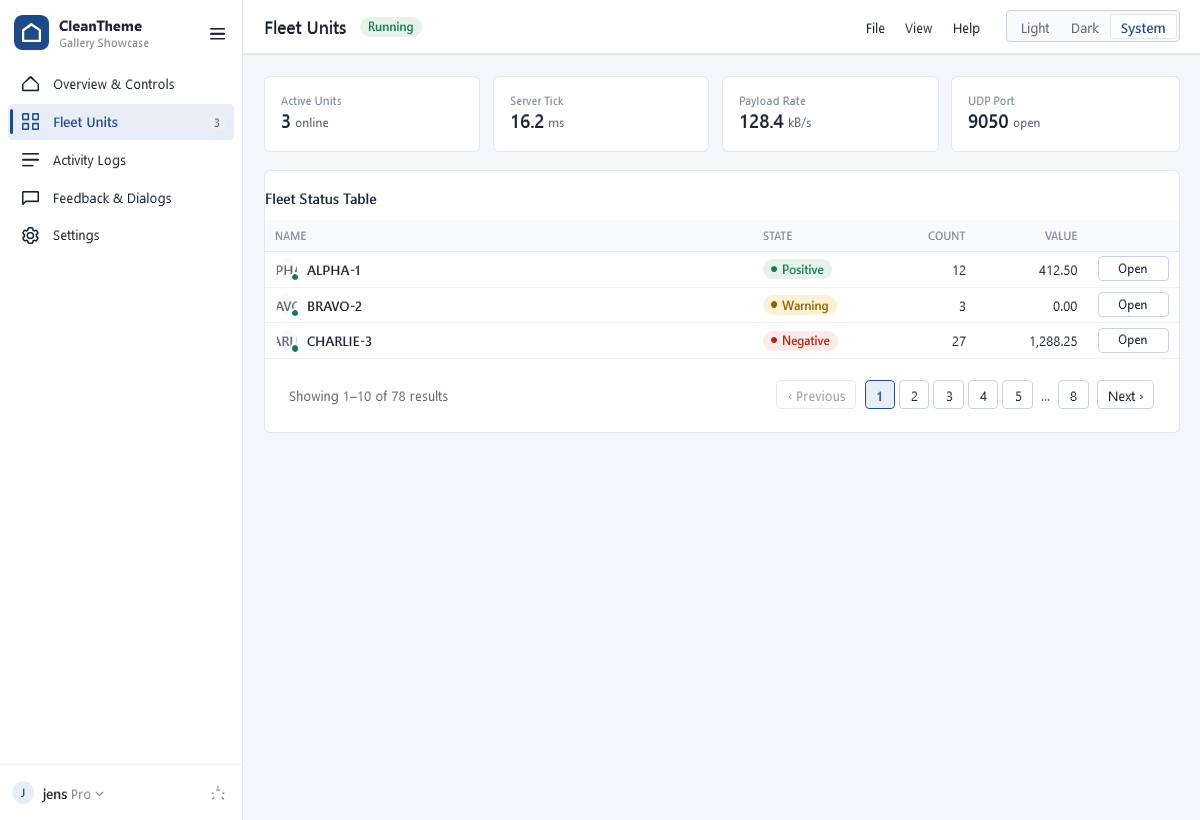
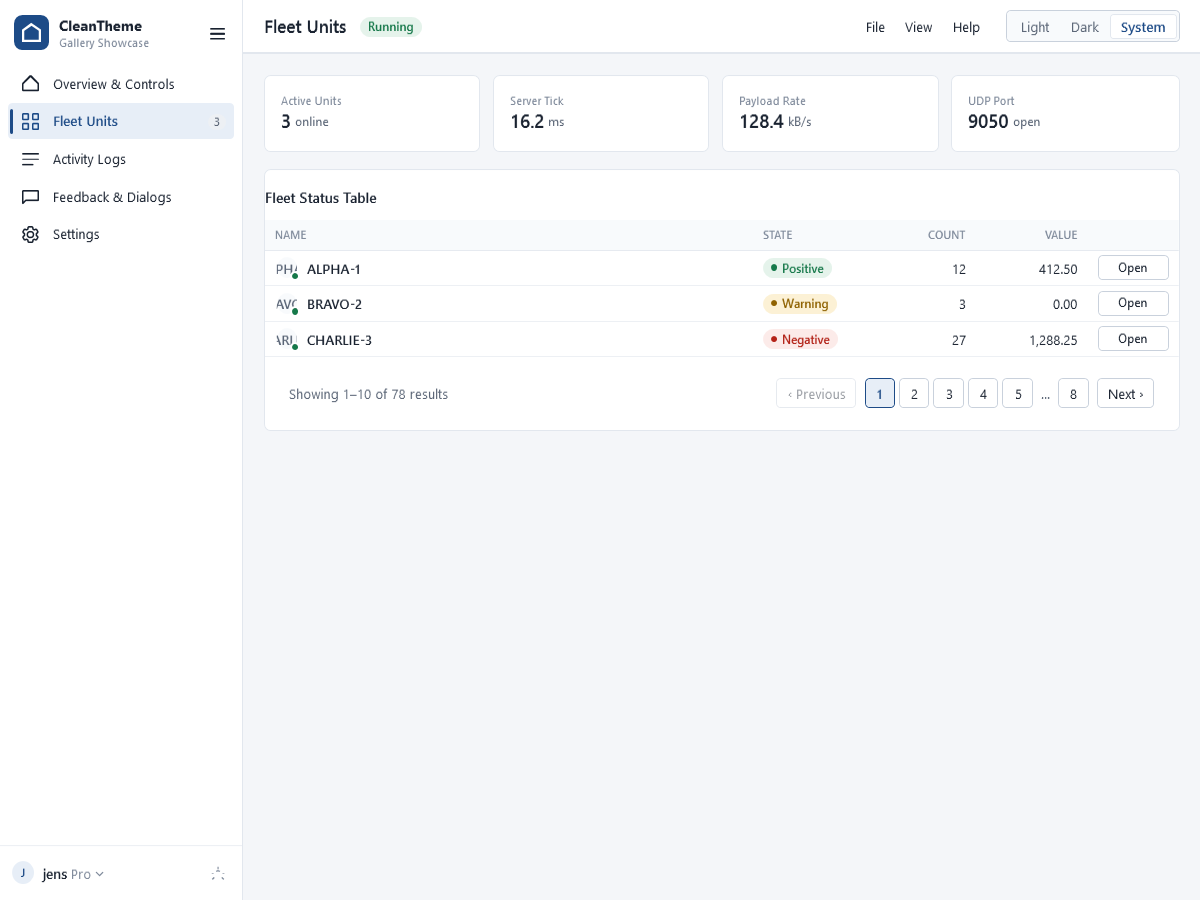
fix(AvatarGroup): use standard ItemsControl virtualization and regenerate unclipped screenshots

diff --git a/src/CleanTheme.Wpf/Themes/Generic.xaml b/src/CleanTheme.Wpf/Themes/Generic.xaml
@@ -1225,22 +1225,18 @@
     <!-- AvatarGroup: overlapping group of avatars with +N overflow -->
     <Style TargetType="controls:AvatarGroup">
         <Setter Property="Focusable" Value="False" />
+        <Setter Property="ItemsPanel">
+            <Setter.Value>
+                <ItemsPanelTemplate>
+                    <StackPanel Orientation="Horizontal" VerticalAlignment="Center" />
+                </ItemsPanelTemplate>
+            </Setter.Value>
+        </Setter>
         <Setter Property="Template">
             <Setter.Value>
                 <ControlTemplate TargetType="controls:AvatarGroup">
                     <StackPanel Orientation="Horizontal" VerticalAlignment="Center">
-                        <ItemsControl ItemsSource="{TemplateBinding VisibleItems}" Focusable="False">
-                            <ItemsControl.ItemsPanel>
-                                <ItemsPanelTemplate>
-                                    <StackPanel Orientation="Horizontal" />
-                                </ItemsPanelTemplate>
-                            </ItemsControl.ItemsPanel>
-                            <ItemsControl.ItemTemplate>
-                                <DataTemplate>
-                                    <ContentPresenter Content="{Binding}" Margin="-8,0,0,0" />
-                                </DataTemplate>
-                            </ItemsControl.ItemTemplate>
-                        </ItemsControl>
+                        <ItemsPresenter />
                         <Border x:Name="OverflowPill" Width="{TemplateBinding AvatarSize}" Height="{TemplateBinding AvatarSize}"
                                 CornerRadius="999" Background="{DynamicResource NeutralSoft}"
                                 BorderBrush="{DynamicResource Surface}" BorderThickness="2"

diff --git a/src/CleanTheme.Wpf/Controls/AvatarGroup.cs b/src/CleanTheme.Wpf/Controls/AvatarGroup.cs
@@ -1,9 +1,4 @@
 using System;
-using System.Collections;
-using System.Collections.Generic;
-using System.Collections.ObjectModel;
-using System.Collections.Specialized;
-using System.Linq;
 using System.Windows;
 using System.Windows.Controls;
 
@@ -12,11 +7,6 @@ namespace CleanTheme.Wpf.Controls;
 /// <summary>Displays an overlapping group of <see cref="Avatar"/> controls with an optional +N overflow indicator.</summary>
 public class AvatarGroup : ItemsControl
 {
-    private static readonly DependencyPropertyKey VisibleItemsPropertyKey = DependencyProperty.RegisterReadOnly(
-        nameof(VisibleItems), typeof(IList), typeof(AvatarGroup), new FrameworkPropertyMetadata(null));
-
-    public static readonly DependencyProperty VisibleItemsProperty = VisibleItemsPropertyKey.DependencyProperty;
-
     private static readonly DependencyPropertyKey OverflowCountPropertyKey = DependencyProperty.RegisterReadOnly(
         nameof(OverflowCount), typeof(int), typeof(AvatarGroup), new FrameworkPropertyMetadata(0));
 
@@ -29,7 +19,7 @@ public class AvatarGroup : ItemsControl
 
     public static readonly DependencyProperty MaxDisplayProperty = DependencyProperty.Register(
         nameof(MaxDisplay), typeof(int), typeof(AvatarGroup),
-        new FrameworkPropertyMetadata(4, (d, _) => ((AvatarGroup)d).UpdateVisibleItems()));
+        new FrameworkPropertyMetadata(4, (d, _) => ((AvatarGroup)d).UpdateContainers()));
 
     public static readonly DependencyProperty AvatarSizeProperty = DependencyProperty.Register(
         nameof(AvatarSize), typeof(double), typeof(AvatarGroup),
@@ -43,14 +33,6 @@ public class AvatarGroup : ItemsControl
     {
         DefaultStyleKeyProperty.OverrideMetadata(typeof(AvatarGroup), new FrameworkPropertyMetadata(typeof(AvatarGroup)));
     }
-
-    public AvatarGroup()
-    {
-        SetValue(VisibleItemsPropertyKey, new ObservableCollection<object>());
-        ((INotifyCollectionChanged)Items).CollectionChanged += OnItemsCollectionChanged;
-    }
-
-    public IList VisibleItems => (IList)GetValue(VisibleItemsProperty);
 
     public int OverflowCount => (int)GetValue(OverflowCountProperty);
 
@@ -74,65 +56,51 @@ public class AvatarGroup : ItemsControl
         set => SetValue(OverlapProperty, value);
     }
 
-    protected override void OnItemsSourceChanged(IEnumerable oldValue, IEnumerable newValue)
+    protected override bool IsItemItsOwnContainerOverride(object item) => item is Avatar;
+
+    protected override DependencyObject GetContainerForItemOverride() => new Avatar();
+
+    protected override void PrepareContainerForItemOverride(DependencyObject element, object item)
     {
-        base.OnItemsSourceChanged(oldValue, newValue);
-        if (oldValue is INotifyCollectionChanged oldNotify)
+        base.PrepareContainerForItemOverride(element, item);
+        if (element is Avatar avatar && item is not Avatar)
         {
-            oldNotify.CollectionChanged -= OnItemsSourceCollectionChanged;
+            avatar.Initials = item?.ToString() ?? string.Empty;
         }
-        if (newValue is INotifyCollectionChanged newNotify)
+
+        if (element is FrameworkElement fe)
         {
-            newNotify.CollectionChanged += OnItemsSourceCollectionChanged;
+            if (element is Avatar av)
+            {
+                av.AvatarSize = AvatarSize;
+            }
         }
-        UpdateVisibleItems();
+
+        UpdateContainers();
     }
 
-    private void OnItemsSourceCollectionChanged(object? sender, NotifyCollectionChangedEventArgs e) => UpdateVisibleItems();
-
-    private void OnItemsCollectionChanged(object? sender, NotifyCollectionChangedEventArgs e) => UpdateVisibleItems();
-
-    private void UpdateVisibleItems()
+    protected override void OnItemsChanged(System.Collections.Specialized.NotifyCollectionChangedEventArgs e)
     {
-        var targetList = (ObservableCollection<object>)VisibleItems;
-        targetList.Clear();
+        base.OnItemsChanged(e);
+        UpdateContainers();
+    }
 
-        var sourceList = new List<object>();
-        if (ItemsSource != null)
-        {
-            foreach (var item in ItemsSource)
-            {
-                sourceList.Add(item);
-            }
-        }
-        else
-        {
-            foreach (var item in Items)
-            {
-                sourceList.Add(item);
-            }
-        }
-
+    public void UpdateContainers()
+    {
+        int count = Items.Count;
         int max = Math.Max(1, MaxDisplay);
-        int total = sourceList.Count;
 
-        if (total <= max)
+        for (int i = 0; i < count; i++)
         {
-            foreach (var item in sourceList)
+            if (ItemContainerGenerator.ContainerFromIndex(i) is FrameworkElement container)
             {
-                targetList.Add(item);
+                container.Visibility = i < max ? Visibility.Visible : Visibility.Collapsed;
+                container.Margin = (i == 0) ? new Thickness(0) : new Thickness(Overlap, 0, 0, 0);
             }
-            SetValue(OverflowCountPropertyKey, 0);
-            SetValue(HasOverflowPropertyKey, false);
         }
-        else
-        {
-            for (int i = 0; i < max; i++)
-            {
-                targetList.Add(sourceList[i]);
-            }
-            SetValue(OverflowCountPropertyKey, total - max);
-            SetValue(HasOverflowPropertyKey, true);
-        }
+
+        int overflow = Math.Max(0, count - max);
+        SetValue(OverflowCountPropertyKey, overflow);
+        SetValue(HasOverflowPropertyKey, overflow > 0);
     }
 }

diff --git a/samples/CleanTheme.Gallery/ScreenshotGenerator.cs b/samples/CleanTheme.Gallery/ScreenshotGenerator.cs
@@ -17,7 +17,7 @@ internal static class ScreenshotGenerator
         Directory.CreateDirectory(outputDir);
 
         window.Width = 1200;
-        window.Height = 820;
+        window.Height = 900;
         window.Show();
         PumpEvents();
 
@@ -174,7 +174,7 @@ internal static class ScreenshotGenerator
         Dispatcher.PushFrame(frame);
     }
 
-    private static void Capture(MainWindow window, string filePath, int width = 1200, int height = 820)
+    private static void Capture(MainWindow window, string filePath, int width = 1200, int height = 900)
     {
         window.Measure(new Size(width, height));
         window.Arrange(new Rect(0, 0, width, height));

diff --git a/tests/CleanTheme.Wpf.Tests/UntitledUiControlsTests.cs b/tests/CleanTheme.Wpf.Tests/UntitledUiControlsTests.cs
@@ -87,7 +87,7 @@ public sealed class UntitledUiControlsTests
             new() { Initials = "E" }
         };
 
-        Assert.Equal(3, group.VisibleItems.Count);
+        Sta.Layout(group);
         Assert.Equal(2, group.OverflowCount);
         Assert.True(group.HasOverflow);
 
